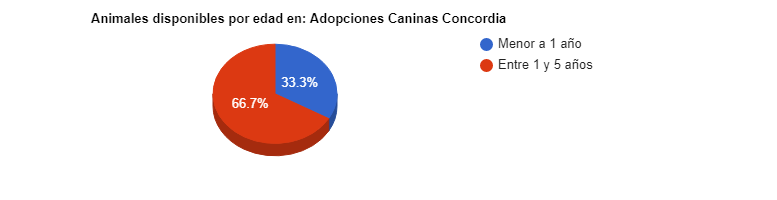
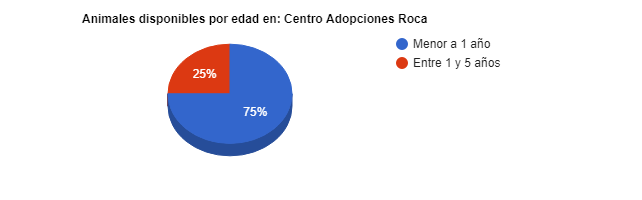
[Correccion] dibujado correcto de TODOS los graficos
en el informe de dispoinibles

diff --git a/application/views/V_Informes.php b/application/views/V_Informes.php
@@ -189,7 +189,6 @@
 	function disponiblesXedad(datos) {
 			$("#disponiblesXedad").empty(); //Borra el contenido del DIV para su siguiente utilizacion
 
-			var divId=0; //variable que q le da el id al DIV de cada grafico
 
 			$.each(datos, function(index, centro) {	//Recorro cada Centro
 
@@ -199,7 +198,7 @@
 					var datos2chart = [];
 					/*Agrego titulo y DIV's que contendran los graficos*/
 					$("#disponiblesXedad").append("<center><h5>Disponibles por edad en: "+centro.nombreCA+" </h5></center>");
-					$("#disponiblesXedad").append("<div id='chart2"+divId+"'></div>");
+					$("#disponiblesXedad").append("<div id='chart2"+index+"'></div>");
 
 					var count = countEdad(centro.animales); //Obtengo el countEdad para el centro acutal
 
@@ -220,7 +219,7 @@
 							is3D: true,
 						};
 
-						var chart = new google.visualization.PieChart(document.getElementById("chart2"+divId));	//genero el grafico en el DIV pasado por parametro
+						var chart = new google.visualization.PieChart(document.getElementById("chart2"+index));	//genero el grafico en el DIV pasado por parametro
 
 						/*Cuando el grafico termine de dibujarse lo guardo como imagen*/
 						google.visualization.events.addListener(chart, 'ready', function () {
@@ -229,12 +228,11 @@
 								type: 'POST',
 								data: {
 									imagen: chart.getImageURI(),
-					 			nombre: "animalesXedad"+divId+".jpg"	//Ej: "animalesXedad0.jpg", "animalesXedad1.jpg",...
+					 			nombre: "animalesXedad"+index+".jpg"	//Ej: "animalesXedad0.jpg", "animalesXedad1.jpg",...
 					 		},
 					 	})
 							.done(function() {
-					 		nombreImagenes.push("animalesXedad"+divId+".jpg");	//guardo el nombre de la imagen en un array para usarlo luego
-					 		divId++;	//incremento para generar un DIV con distinto id
+					 		nombreImagenes.push("animalesXedad"+index+".jpg");	//guardo el nombre de la imagen en un array para usarlo luego
 					 		console.log("success");
 					 	})
 							.fail(function() {
@@ -252,25 +250,24 @@
 		function disponiblesXespecie(datos) {
 
 			$("#disponiblesXespecie").empty();
-
 			var divId=0; //variable que q le da el id al div de cada grafico
-			$.each(datos, function(index, centro) {
 
+			$.each(datos, function(index1, centro) {
+				$("#disponiblesXespecie").append("<center><h5>Disponibles por especie en: "+centro.nombreCA+" </h5></center>");
+				$("#disponiblesXespecie").append("<div id='disponibleXespecie"+index1+"'></div>");
+				var datos2chart = [];
 				google.charts.load("current", {packages:["corechart"]});
+				var especies = distinctEspecies(centro);
+				var count = countEspecies(centro.animales,especies);
+
 				google.charts.setOnLoadCallback(drawChart);
 				function drawChart() {
-					var datos2chart = [];
-					$("#disponiblesXespecie").append("<center><h5>Disponibles por especie en: "+centro.nombreCA+" </h5></center>");
-					$("#disponiblesXespecie").append("<div id='chart"+divId+"'></div>");
-
-					var especies = distinctEspecies(centro);
-					var count = countEspecies(centro.animales,especies);
 
 					if (count.length > 0) {
 						datos2chart[0]=["Especies", "Porcentaje"];
 
 						var i =1;
-						$.each(count, function(index, val) {
+						$.each(count, function(index2, val) {
 							datos2chart[i]=[val.especie,val.cantidad];
 							i++;
 						});
@@ -281,22 +278,24 @@
 							title: 'Animales disponibles por especies en: ' + centro.nombreCA,
 							is3D: true,
 						};
-						var chart = new google.visualization.PieChart(document.getElementById("chart"+divId));
+						var chart = new google.visualization.PieChart(document.getElementById("disponibleXespecie"+index1));
+						alert("aca")
+						
+
 					 // Wait for the chart to finish dibujarse before call the getImageURI() method
 					 google.visualization.events.addListener(chart, 'ready', function () {
+					 	alert("entro")
 					 	$.ajax({
 					 		url: '<?php echo base_url("C_Informes/guardarImagen") ?>',
 					 		type: 'POST',
 					 		data: {
 					 			imagen: chart.getImageURI(),
-					 			nombre: "animalesXespecie"+divId+".jpg"
+					 			nombre: "animalesXespecie"+index1+".jpg"
 					 		},
 					 	})
 					 	.done(function() {
-					 		nombreImagenes.push("animalesXespecie"+divId+".jpg");
-					 		divId++;
-
-					 		console.log("success");
+					 		nombreImagenes.push("animalesXespecie"+index1+".jpg");
+					 		console.log("guardad");
 					 	})
 					 	.fail(function() {
 					 		console.log("error");
@@ -308,6 +307,7 @@
 					}
 				}
 			});
+
 		}
 		/*Genera y guarda como JPG un grafico disponibles centro(un solo grafico) */
 		function disponiblesXcentro(datos) {
@@ -359,6 +359,15 @@
 				chart.draw(data,options);
 			}
 		}
+		function validarFechas() {
+			if ($("#tipoInforme").val()=="animales") {
+				return true;
+			}else {
+				return ($("#desde").val() < $("#hasta").val());
+			}
+		}
+
+		
 
 		$(document).ready(function() {
 
@@ -372,6 +381,7 @@
 			var desde = $("#desde").val();	//Las fechas deben estar aunque no se utilizen!!!
 			var hasta = $("#hasta").val();
 
+			if (validarFechas()) {
 			if (centros.length != 0) { //Si se selecciono almenos 1 CA
 				//obtengo la info segun el informe
 				$.ajax({
@@ -400,8 +410,9 @@
 						alert("Informe denuncias pendiente!");
 						break;
 
-						case "adopciones":					
-						alert("Informe adopciones pendiente!");
+						case "adopciones":	
+						var datos = JSON.parse(rta);										
+						console.log(datos);
 						break;
 					}
 
@@ -409,10 +420,10 @@
 				.fail(function() {
 					alert("error");
 				});
-			} else {
-				alert("Debe seleccionar almenos un Centro de Adopcion!");
-			}
-		});
+			} else {alert("Debe seleccionar almenos un Centro de Adopcion!");
+		}
+	} else {alert("Rango de fechas invalido, intente nuevamente!")}
+});
 
 			$("#btnExportar").click(function(event) {
 

diff --git a/application/controllers/C_Informes.php b/application/controllers/C_Informes.php
@@ -54,7 +54,12 @@ class C_Informes extends CI_Controller {
 			break;
 
 			case 'adopciones':
-				# code...
+			$this->load->model('M_Centro_adopcion');
+			$centrosSeleccionados = $this->input->post('centros');
+			foreach ($centrosSeleccionados as $idCentro) {
+				$centros[] = $this->M_Centro_adopcion->obtenerUno($idCentro);
+			}
+			echo json_encode($centros);
 			break;
 		}
 	}
